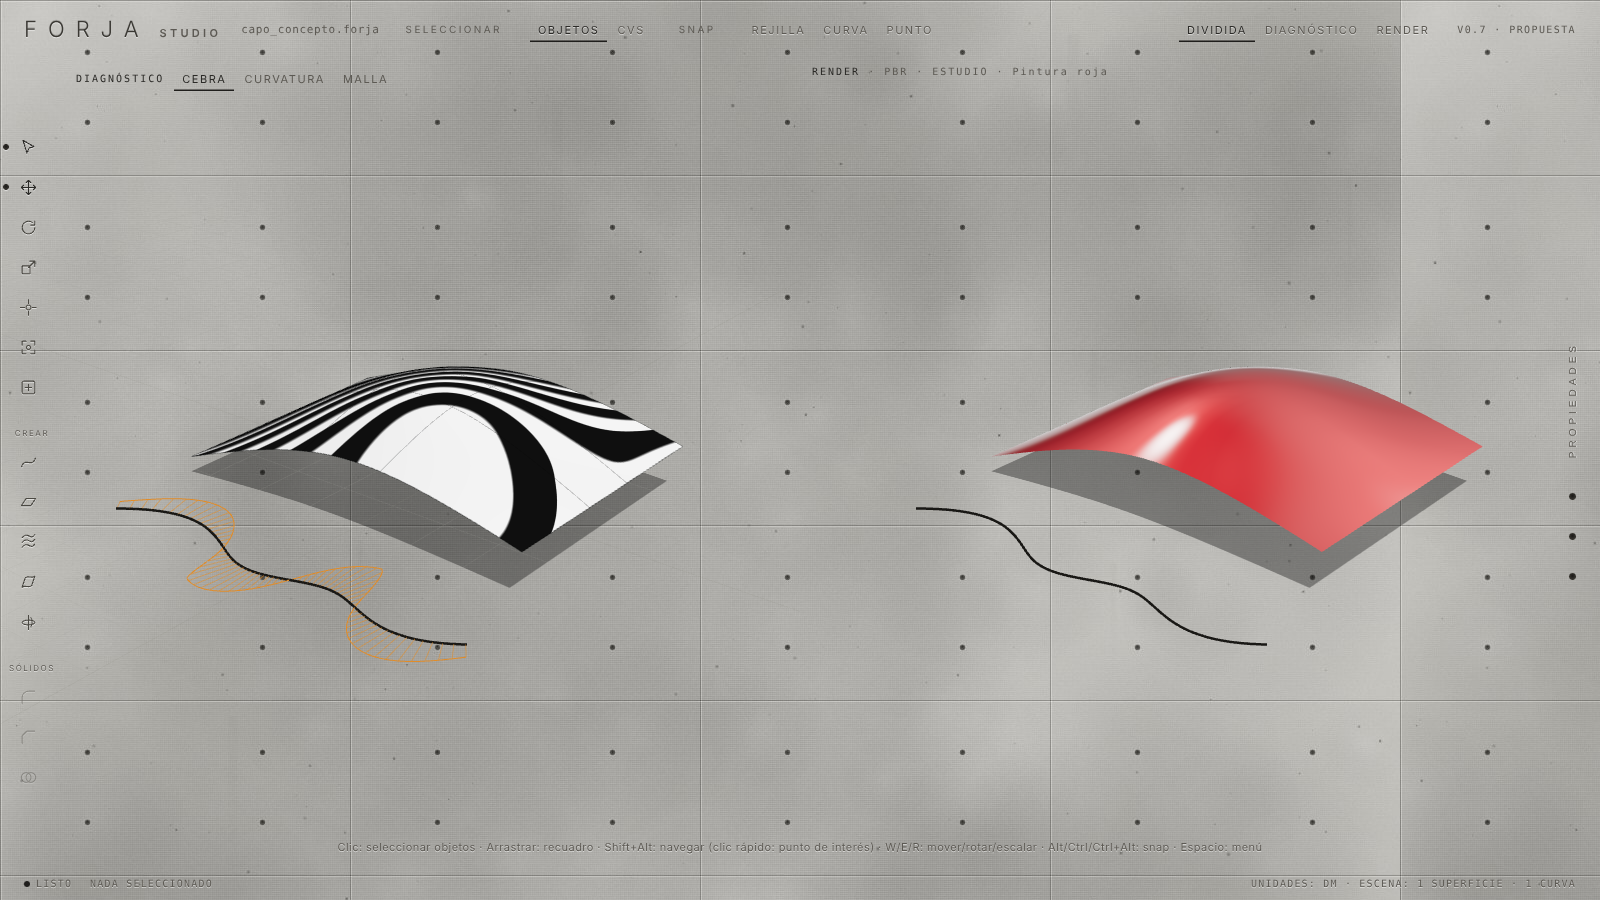
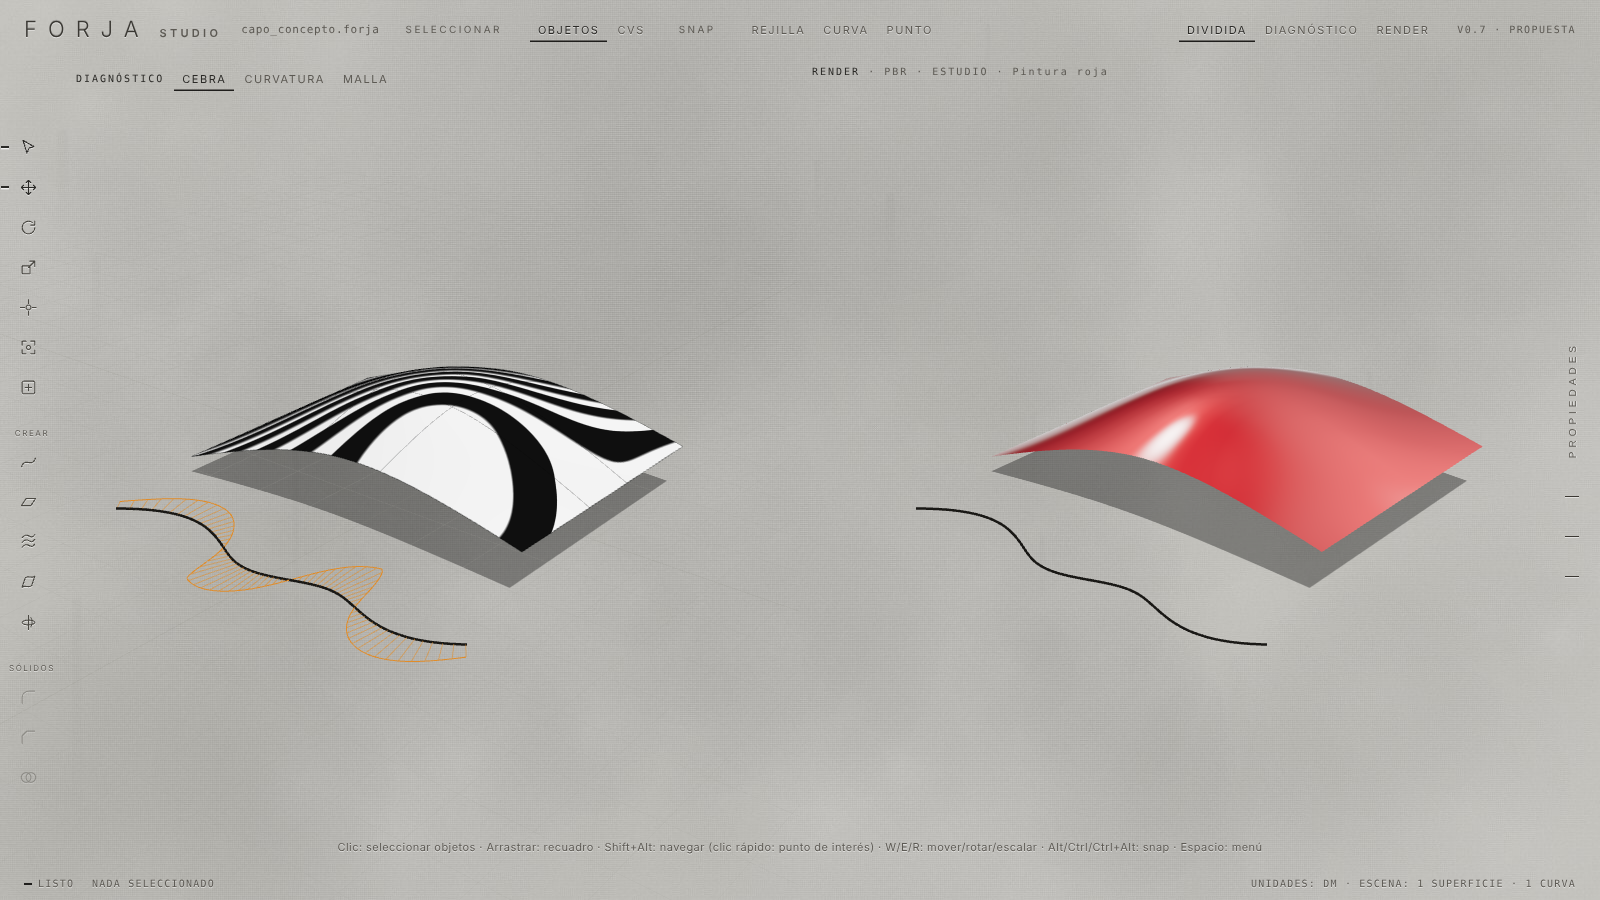
Hormigón: una sola imagen del tamaño de la pantalla, sin mosaico ni puntos
Claude-Session: https://claude.ai/code/session_01GFT2bY11zXSFbQuxHpDENA

diff --git a/src/concrete.js b/src/concrete.js
@@ -7,7 +7,7 @@ function rand(seed) {
   return () => ((s = (s * 1664525 + 1013904223) >>> 0) / 4294967296);
 }
 
-export function concreteTexture({ w = 1400, h = 1050, base = '#c7c5c0', seed = 7, joints = true, mottle = 1 } = {}) {
+export function concreteTexture({ w = 1400, h = 1050, base = '#c7c5c0', seed = 7, joints = false, pores = false, mottle = 1 } = {}) {
   const r = rand(seed);
   const c = document.createElement('canvas');
   c.width = w; c.height = h;
@@ -16,10 +16,11 @@ export function concreteTexture({ w = 1400, h = 1050, base = '#c7c5c0', seed = 7
   g.fillRect(0, 0, w, h);
 
   // Manchas grandes y suaves (variación del vertido)
-  for (let i = 0; i < 260; i++) {
-    const x = r() * w, y = r() * h, rad = 40 + r() * 260, light = r() > 0.5;
+  const scale = Math.max(w, h) / 1400;
+  for (let i = 0; i < 140 * scale; i++) {
+    const x = r() * w, y = r() * h, rad = (60 + r() * 320) * Math.max(1, scale * 0.8), light = r() > 0.45;
     const grd = g.createRadialGradient(x, y, 0, x, y, rad);
-    grd.addColorStop(0, light ? `rgba(255,255,255,${0.05 * mottle})` : `rgba(70,64,56,${0.05 * mottle})`);
+    grd.addColorStop(0, light ? `rgba(255,255,255,${0.035 * mottle})` : `rgba(70,64,56,${0.022 * mottle})`);
     grd.addColorStop(1, 'rgba(0,0,0,0)');
     g.fillStyle = grd;
     g.fillRect(x - rad, y - rad, rad * 2, rad * 2);
@@ -40,8 +41,8 @@ export function concreteTexture({ w = 1400, h = 1050, base = '#c7c5c0', seed = 7
     d[i] += n; d[i + 1] += n; d[i + 2] += n;
   }
   g.putImageData(img, 0, 0);
-  // Poros (burbujas de aire)
-  for (let i = 0; i < 420 * mottle; i++) {
+  // Poros (burbujas de aire), desactivados por defecto
+  for (let i = 0; pores && i < 420 * mottle; i++) {
     const x = r() * w, y = r() * h, rad = 0.4 + r() * r() * 1.4;
     g.fillStyle = `rgba(45,42,38,${0.12 + r() * 0.25})`;
     g.beginPath(); g.arc(x, y, rad, 0, Math.PI * 2); g.fill();
@@ -74,8 +75,15 @@ export function concreteTexture({ w = 1400, h = 1050, base = '#c7c5c0', seed = 7
   return c.toDataURL('image/jpeg', 0.86);
 }
 
+// Una sola imagen del tamaño de la pantalla (sin mosaico); se regenera al cambiar el tamaño de la ventana.
 export function applyConcrete() {
   const root = document.documentElement.style;
-  root.setProperty('--concrete', `url(${concreteTexture()})`);
-  root.setProperty('--concrete-slab', `url(${concreteTexture({ w: 700, h: 700, base: '#d6d4cf', seed: 21, joints: false, mottle: 0.45 })})`);
+  const paint = () => {
+    const dpr = Math.min(devicePixelRatio || 1, 2);
+    const w = Math.round(innerWidth * dpr), h = Math.round(innerHeight * dpr);
+    root.setProperty('--concrete', `url(${concreteTexture({ w, h })})`);
+  };
+  paint();
+  let t = 0;
+  addEventListener('resize', () => { clearTimeout(t); t = setTimeout(paint, 250); });
 }

diff --git a/index.html b/index.html
@@ -206,7 +206,7 @@
   .tools .tl { font-size: 9px; color: var(--muted); text-align: center; letter-spacing: .05em; padding: 2px 0; }
 
   /* ===== Muro de hormigón ===== */
-  body { background: var(--bg) var(--concrete); background-size: 1400px 1050px; background-attachment: fixed; }
+  body { background: var(--bg) var(--concrete) no-repeat center / 100% 100%; background-attachment: fixed; }
   .app, .app.auto {
     grid-template-columns: 64px 1fr 56px;
     grid-template-rows: 58px 1fr 34px;
@@ -331,6 +331,12 @@
   .panel .sec, .panel-head { text-shadow: 0 1px 0 var(--engrave-light); }
   .btn, .coord, select.sel, .grid4 select, .grid4 input { background: rgba(255,255,255,.28); }
   .mat img { mix-blend-mode: multiply; }
+
+  /* Sin puntos: los símbolos son líneas finas grabadas */
+  .glyph.dot::before { width: 14px; height: 1.5px; border-radius: 0; background: #3b3833; box-shadow: 0 1px 0 var(--engrave-light); }
+  .glyph.dot:hover::before { transform: scaleX(1.6); }
+  .tools button[aria-pressed="true"]::after { width: 8px; height: 1.5px; margin-top: -1px; left: -8px; border-radius: 0; background: #2b2a27; box-shadow: 0 1px 0 var(--engrave-light); }
+  .status .dot { width: 8px; height: 1.5px; border-radius: 0; vertical-align: middle; }
 </style>
 </head>
 <body>
